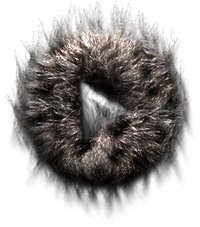
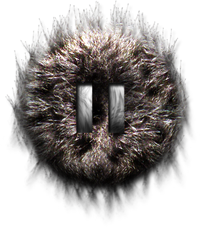
Skin Jplayer - pause+play - remove 1px

Changed region(s): [[0.3, 0.3084, 0.69, 0.6167], [0.69, 0.5551, 0.75, 0.5859], [0.75, 0.4934, 0.78, 0.5242]]

diff --git a/skin/hairy/jplayer.hairy.css b/skin/hairy/jplayer.hairy.css
@@ -86,6 +86,7 @@ div.jp-interface {
 
 
 div.jp-audio .jp-interface {
+	background: url("jplayer.play.png") 0 0 no-repeat;
 	height: 80px;
 	padding-top:30px;
 }
@@ -101,7 +102,6 @@ div.jp-controls-holder {
 }
 
 div.jp-interface ul.jp-controls {
-	background: url("jplayer.play.png") 0 0 no-repeat;
 	list-style-type:none;
 	padding: 1px 0 2px 1px;
 	overflow:hidden;
@@ -440,7 +440,7 @@ div.jp-audio .jp-interface .jp-volume-bar,
 
 div.jp-audio-stream .jp-interface .jp-volume-bar {
 	width: 97px;
-	border-right:1px solid #180920;
+	border-right:0px solid #180920;
 	padding-right:1px;
 }
 
